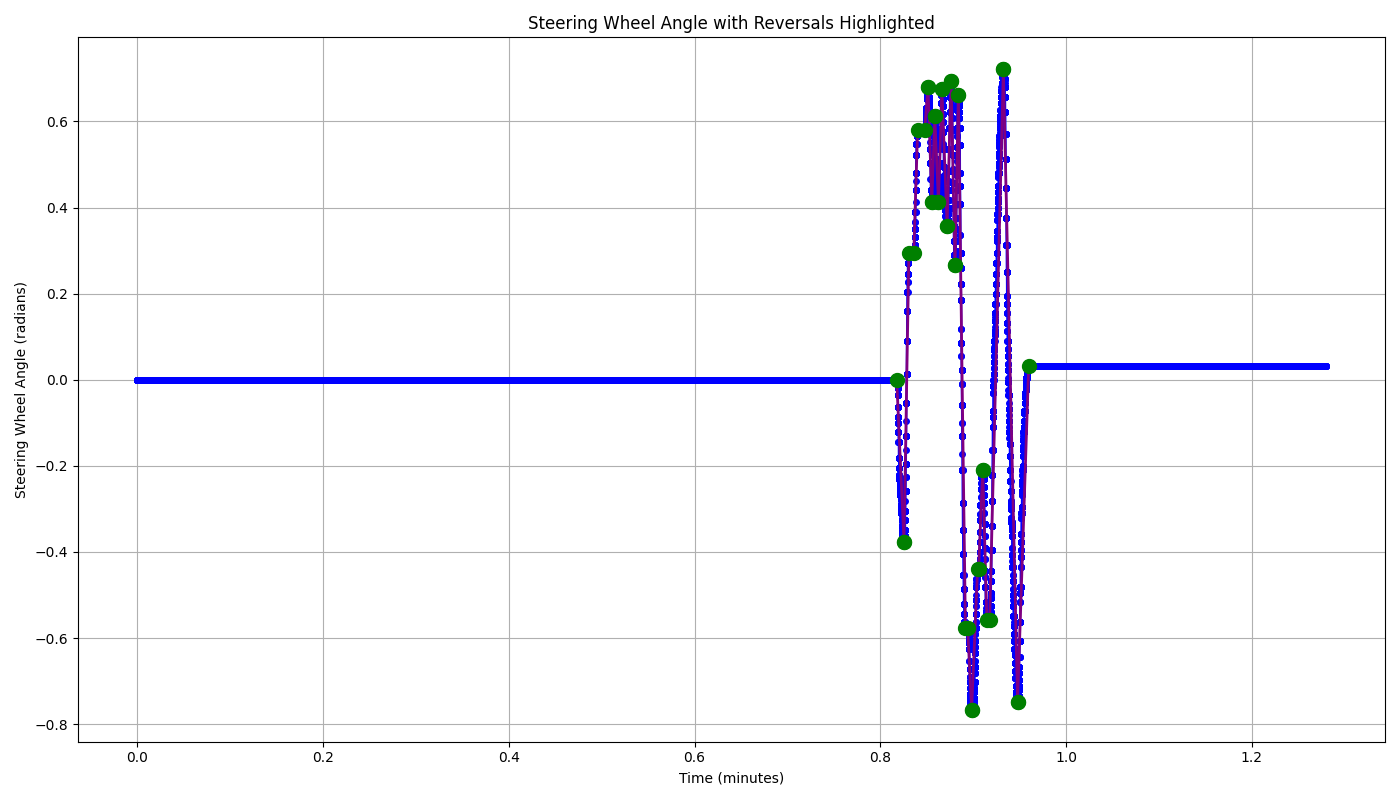
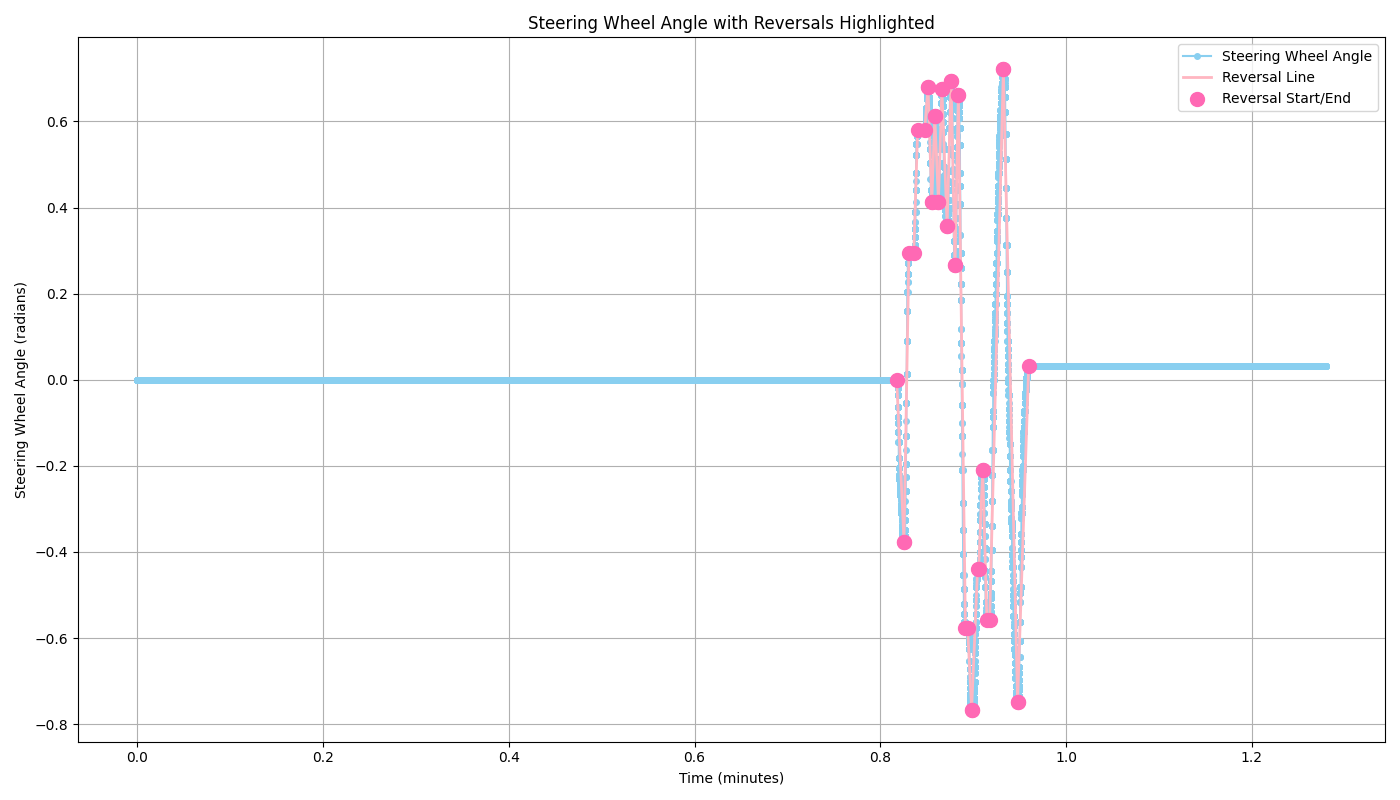
Pastel pallet and key for input device plots

Changed region(s): [[0.0921, 0.0625, 0.9521, 0.9062], [0.8293, 0.0625, 0.9829, 0.1562]]

diff --git a/scripts/input_device_reversal_rate.py b/scripts/input_device_reversal_rate.py
@@ -91,18 +91,28 @@ def plot_steering_angle(data, reversals, output_path):
     """Plot steering angle with reversal markers highlighted as lines with circles at start and end points."""
     plt.figure(figsize=(14, 8))
 
-    # Plot the full steering angle data
-    plt.plot(data['Time'], data['SteeringAngle'], marker='o', color='blue', markersize=4, label='Steering Wheel Angle')
+    # Use a pastel color palette
+    steering_line, = plt.plot(data['Time'], data['SteeringAngle'], marker='o', color='#89CFF0', markersize=4, label='Steering Wheel Angle')
+
+    reversal_lines = []
+    reversal_dots = []
 
     for start, end in reversals:
         if end < len(data):
             # Plot a line between the start and end of the reversal
-            plt.plot([data.iloc[start]['Time'], data.iloc[end]['Time']],
-                     [data.iloc[start]['SteeringAngle'], data.iloc[end]['SteeringAngle']],
-                     color='purple', linewidth=2, zorder=5)
-            # Mark the start and end with green circles
-            plt.scatter(data.iloc[start]['Time'], data.iloc[start]['SteeringAngle'], color='green', marker='o', s=100, zorder=6)
-            plt.scatter(data.iloc[end]['Time'], data.iloc[end]['SteeringAngle'], color='green', marker='o', s=100, zorder=6)
+            line, = plt.plot([data.iloc[start]['Time'], data.iloc[end]['Time']],
+                             [data.iloc[start]['SteeringAngle'], data.iloc[end]['SteeringAngle']],
+                             color='#FFB6C1', linewidth=2, zorder=5)
+            reversal_lines.append(line)
+
+            # Mark the start and end with circles
+            dot_start = plt.scatter(data.iloc[start]['Time'], data.iloc[start]['SteeringAngle'], color='#FF69B4', marker='o', s=100, zorder=6)
+            dot_end = plt.scatter(data.iloc[end]['Time'], data.iloc[end]['SteeringAngle'], color='#FF69B4', marker='o', s=100, zorder=6)
+            reversal_dots.extend([dot_start, dot_end])
+
+    # Add legend
+    plt.legend([steering_line, reversal_lines[0], reversal_dots[0]], 
+               ['Steering Wheel Angle', 'Reversal Line', 'Reversal Start/End'])
 
     plt.xlabel('Time (minutes)')
     plt.ylabel('Steering Wheel Angle (radians)')
@@ -112,6 +122,7 @@ def plot_steering_angle(data, reversals, output_path):
     plt.tight_layout()
     plt.savefig(output_path)
     plt.close()
+
 
 def process_all_participants_data(data_logs_dir):
     """Process all participant data in the data_logs directory."""
